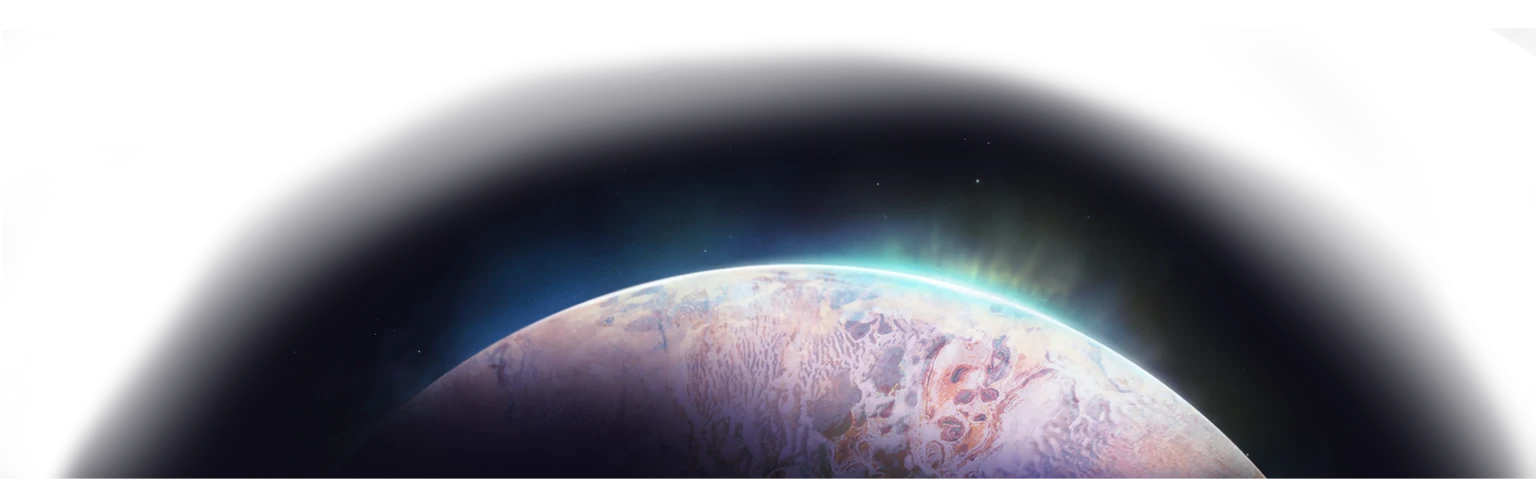
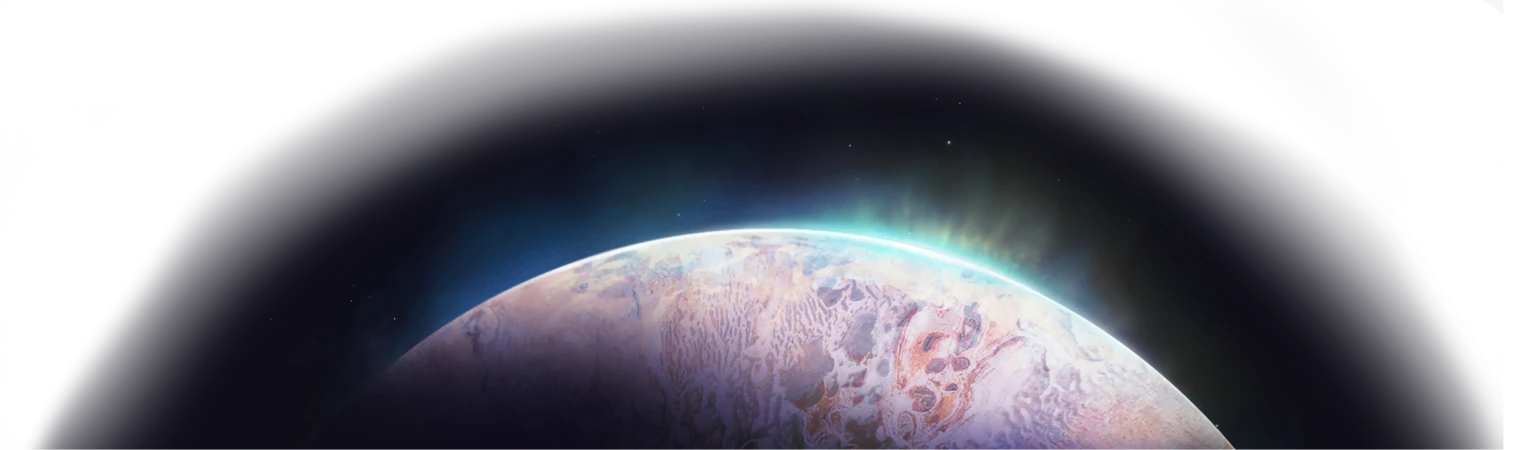
Replaces planet assets

diff --git a/website/src/framework/page-background/page-background.component.scss b/website/src/framework/page-background/page-background.component.scss
@@ -75,6 +75,7 @@
     img {
         position: absolute;
         bottom: 0;
-        left: -2.1%; // all planets assets are uncentered towards right by ~ 2.1%
+        left: 0;
+        right: 0;
     }
 }
